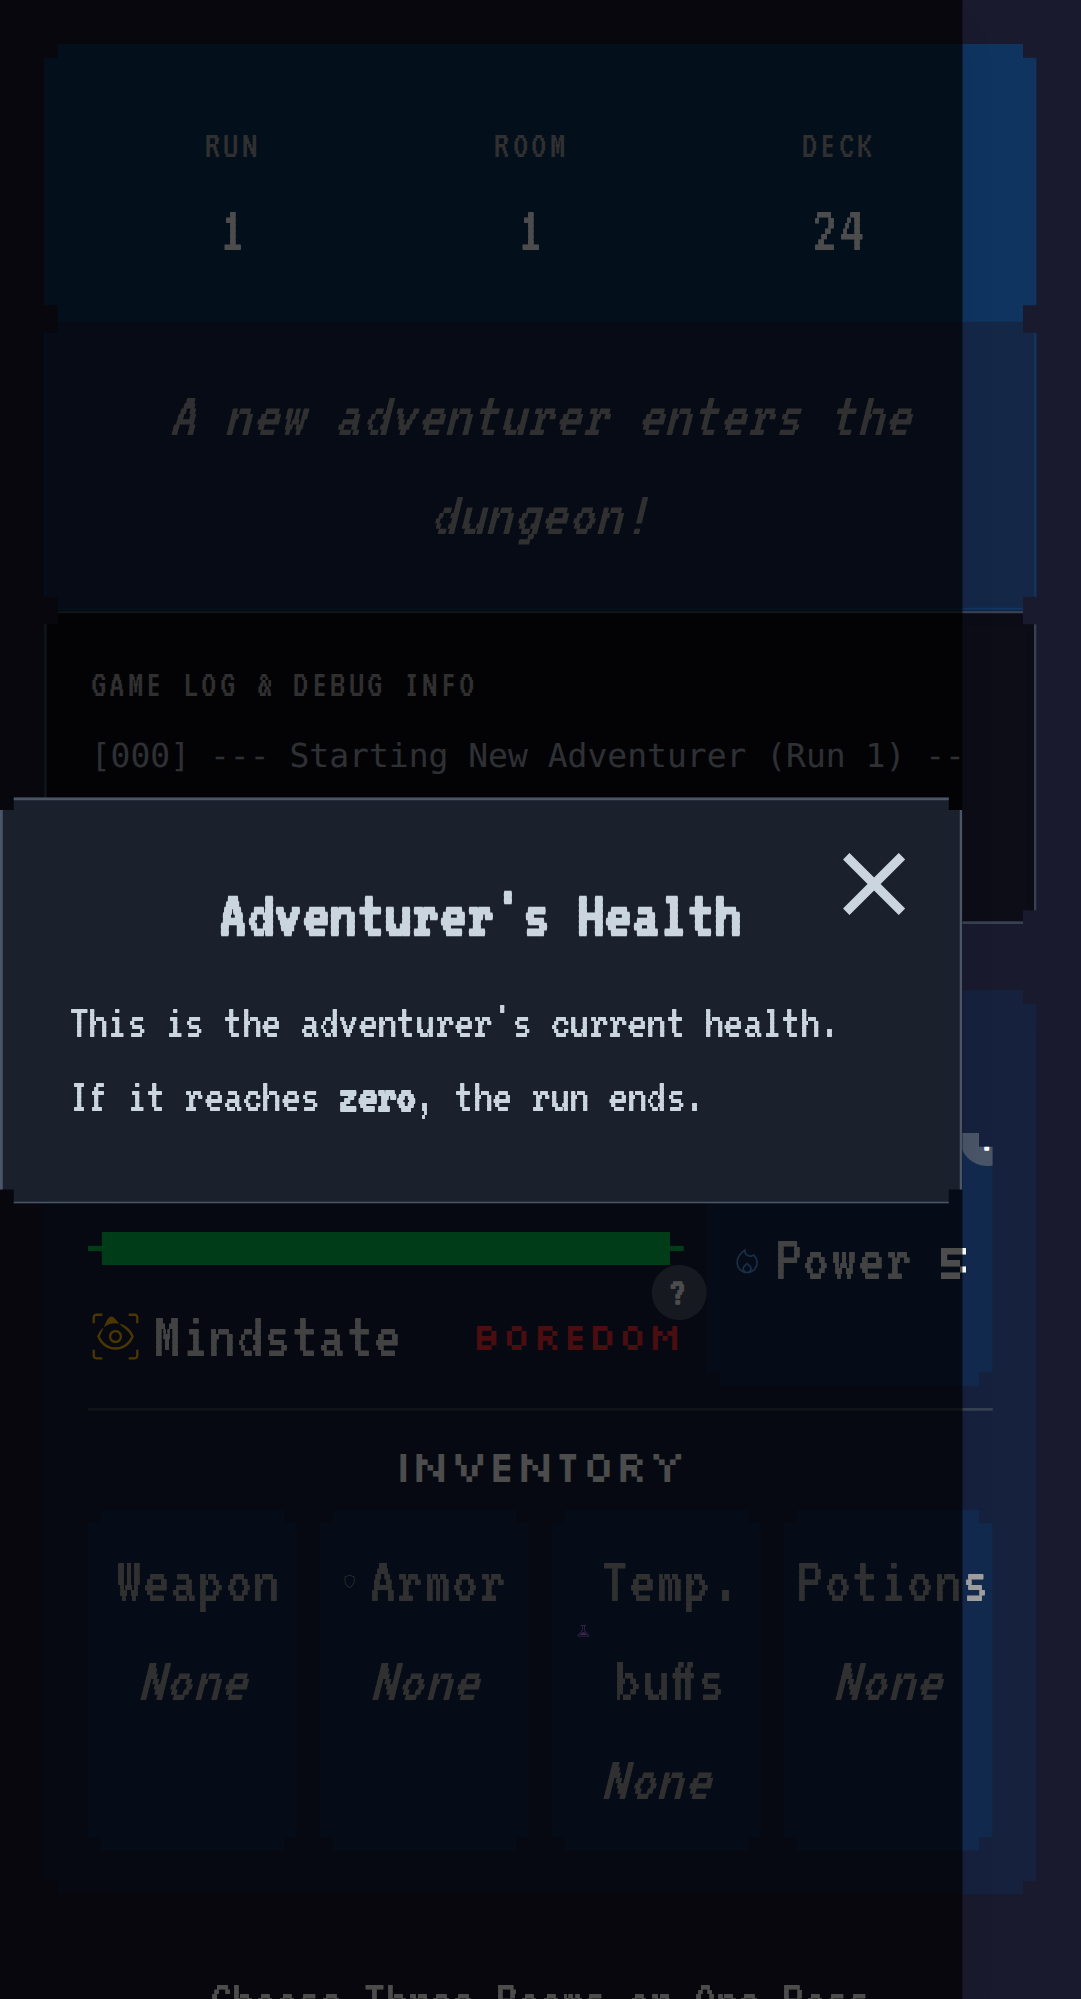
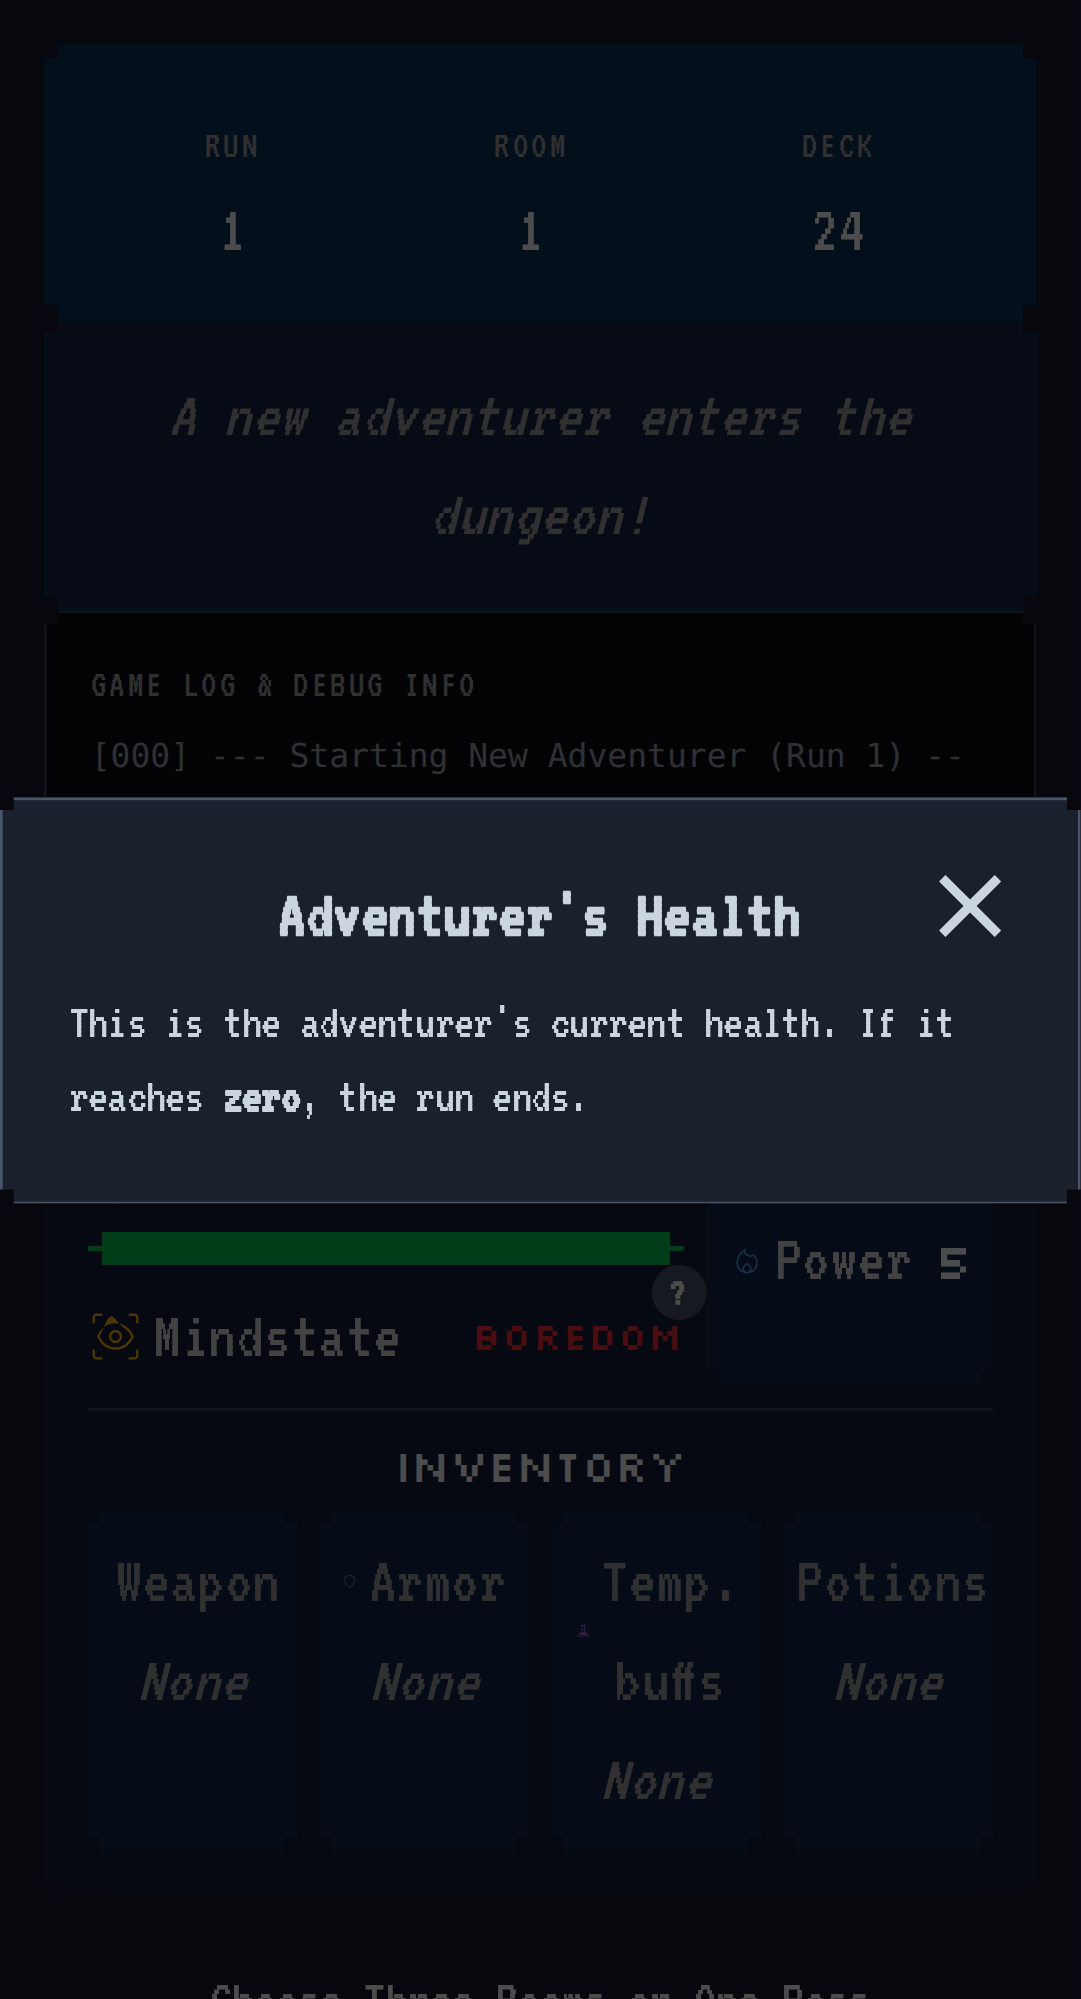
Feat: Enhance Tooltip UX for Mobile and Desktop
This commit introduces a comprehensive overhaul of the tooltip system to improve usability and create a consistent visual style across platforms.

Key enhancements include:

- **Mobile:**
  - A `?` icon is now dynamically added to elements with tooltips, providing a clear visual indicator for interaction.
  - The tooltip is triggered by a standard click on the icon, replacing the previous long-press gesture.
  - On activation, the tooltip displays as a full-screen, blocking modal with a prominent close button. The overlay now correctly covers the entire viewport.

- **Desktop:**
  - The tooltip now continuously follows the mouse pointer's movement while visible, providing a more responsive experience.
  - The visual style has been updated to match the mobile version, using the `pixel-corners` effect and consistent padding.

The implementation includes refactoring the `TooltipBox` component for cleaner and more robust styling, updating the `TooltipManager` to handle new events (`mousemove`), and creating a `TooltipHelper` to manage icon injection.

All changes are verified by an updated Playwright script that tests the full interaction flow on both platforms.

diff --git a/components/TooltipBox.ts b/components/TooltipBox.ts
@@ -38,7 +38,7 @@ export class TooltipBox extends HTMLElement {
 
             .content-container {
                 position: relative;
-                padding: 1.5rem; /* Correctly apply padding here */
+                padding: 1.5rem;
             }
 
             .close-button {
@@ -63,6 +63,7 @@ export class TooltipBox extends HTMLElement {
                     height: 100%;
                     background-color: rgba(0, 0, 0, 0.7);
                     pointer-events: auto;
+                    max-width: none; /* Override desktop max-width */
                 }
 
                 .content-container {
@@ -80,14 +81,15 @@ export class TooltipBox extends HTMLElement {
                 .close-button {
                     display: block;
                     position: absolute;
-                    top: 0.5rem;
-                    right: 0.5rem;
+                    top: 1rem;
+                    right: 1rem;
                     font-size: 2.5rem;
                     color: #cbd5e0;
                     cursor: pointer;
                     background: none;
                     border: none;
                     line-height: 1;
+                    z-index: 10;
                 }
 
                 h3 {
@@ -117,7 +119,7 @@ export class TooltipBox extends HTMLElement {
     }
 
     connectedCallback() {
-      // Apply pixel-corners class after the element is in the DOM
+      // Apply pixel-corners class after the element is in the DOM.
       if (window.matchMedia('(pointer: coarse)').matches) {
         this.contentContainer.classList.add('pixel-corners');
       } else {
@@ -142,6 +144,14 @@ export class TooltipBox extends HTMLElement {
     hide() {
         this.classList.remove('show');
         this.style.display = 'none';
+    }
+
+    updatePosition(x: number, y: number) {
+        // This should only affect desktop tooltips, as mobile is not positioned this way.
+        if (!window.matchMedia('(pointer: coarse)').matches) {
+            this.style.left = `${x + 15}px`;
+            this.style.top = `${y + 15}px`;
+        }
     }
 }
 

diff --git a/tooltip.ts b/tooltip.ts
@@ -7,6 +7,7 @@ class TooltipManager {
     private tooltipBox: TooltipBox;
     private showTimeout: number | null = null;
     private hideTimeout: number | null = null;
+    private desktopTooltipActive = false;
 
     private constructor() {
         // The TooltipBox component is expected to be registered via import
@@ -36,6 +37,7 @@ class TooltipManager {
                 const tooltipContent = this.getTooltipContent(tooltipKey);
                 if (tooltipContent) {
                     this.tooltipBox.show(tooltipContent, event.clientX, event.clientY);
+                    this.desktopTooltipActive = true;
                 }
             }, 300); // 300ms delay before showing
         }
@@ -49,7 +51,14 @@ class TooltipManager {
         }
         this.hideTimeout = window.setTimeout(() => {
             this.tooltipBox.hide();
+            this.desktopTooltipActive = false;
         }, 100); // 100ms delay before hiding
+    }
+
+    public handleMouseMove(event: MouseEvent) {
+        if (this.desktopTooltipActive) {
+            this.tooltipBox.updatePosition(event.clientX, event.clientY);
+        }
     }
 
     public handleClick(event: MouseEvent) {
@@ -75,20 +84,14 @@ class TooltipManager {
     }
 
     private getTooltipContent(key: string): { title: string, body: string } | null {
-        // For now, we'll use a placeholder.
-        // In a later step, we will get this from the localization file.
         const body = t(`tooltips.${key}.body`);
         if (body.includes('tooltips.')) {
-            // Key not found
             return null;
         }
-
-        // Check if a title exists for this key
         let title = t(`tooltips.${key}.title`);
         if (title.includes('tooltips.')) {
-            title = t('global.information'); // Default title
+            title = t('global.information');
         }
-
         return {
             title: title,
             body: body

diff --git a/main.ts b/main.ts
@@ -63,6 +63,7 @@ async function main() {
   // Initialize tooltip listeners
   document.body.addEventListener('mouseover', (e) => tooltipManager.handleMouseEnter(e));
   document.body.addEventListener('mouseout', () => tooltipManager.handleMouseLeave());
+  document.body.addEventListener('mousemove', (e) => tooltipManager.handleMouseMove(e));
   document.body.addEventListener('click', (e) => tooltipManager.handleClick(e));
 
 
